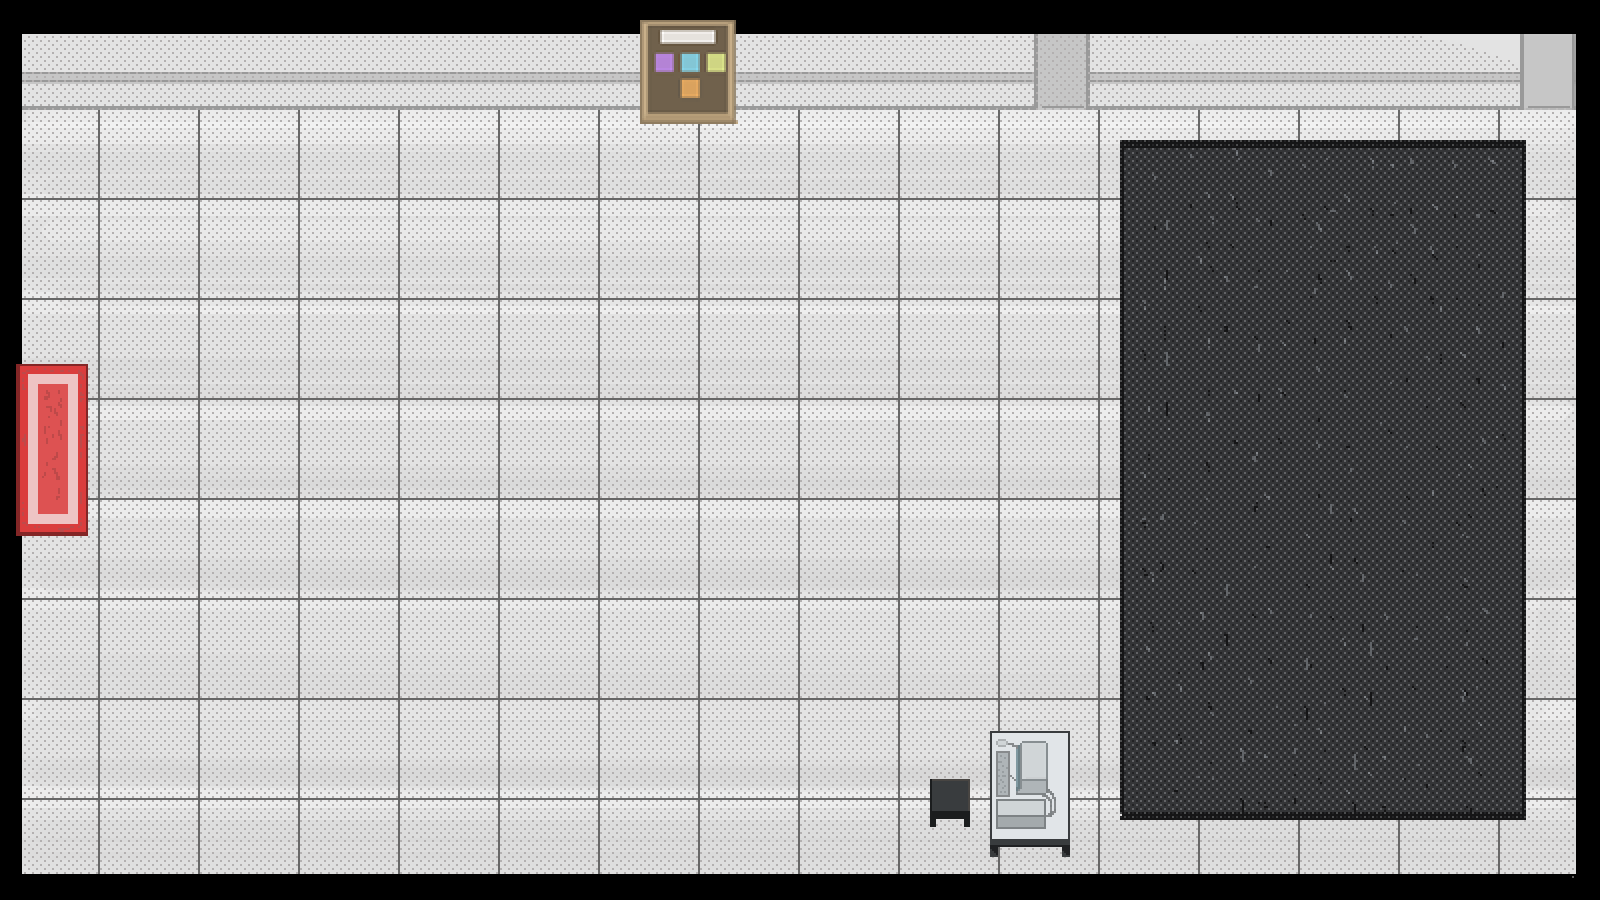
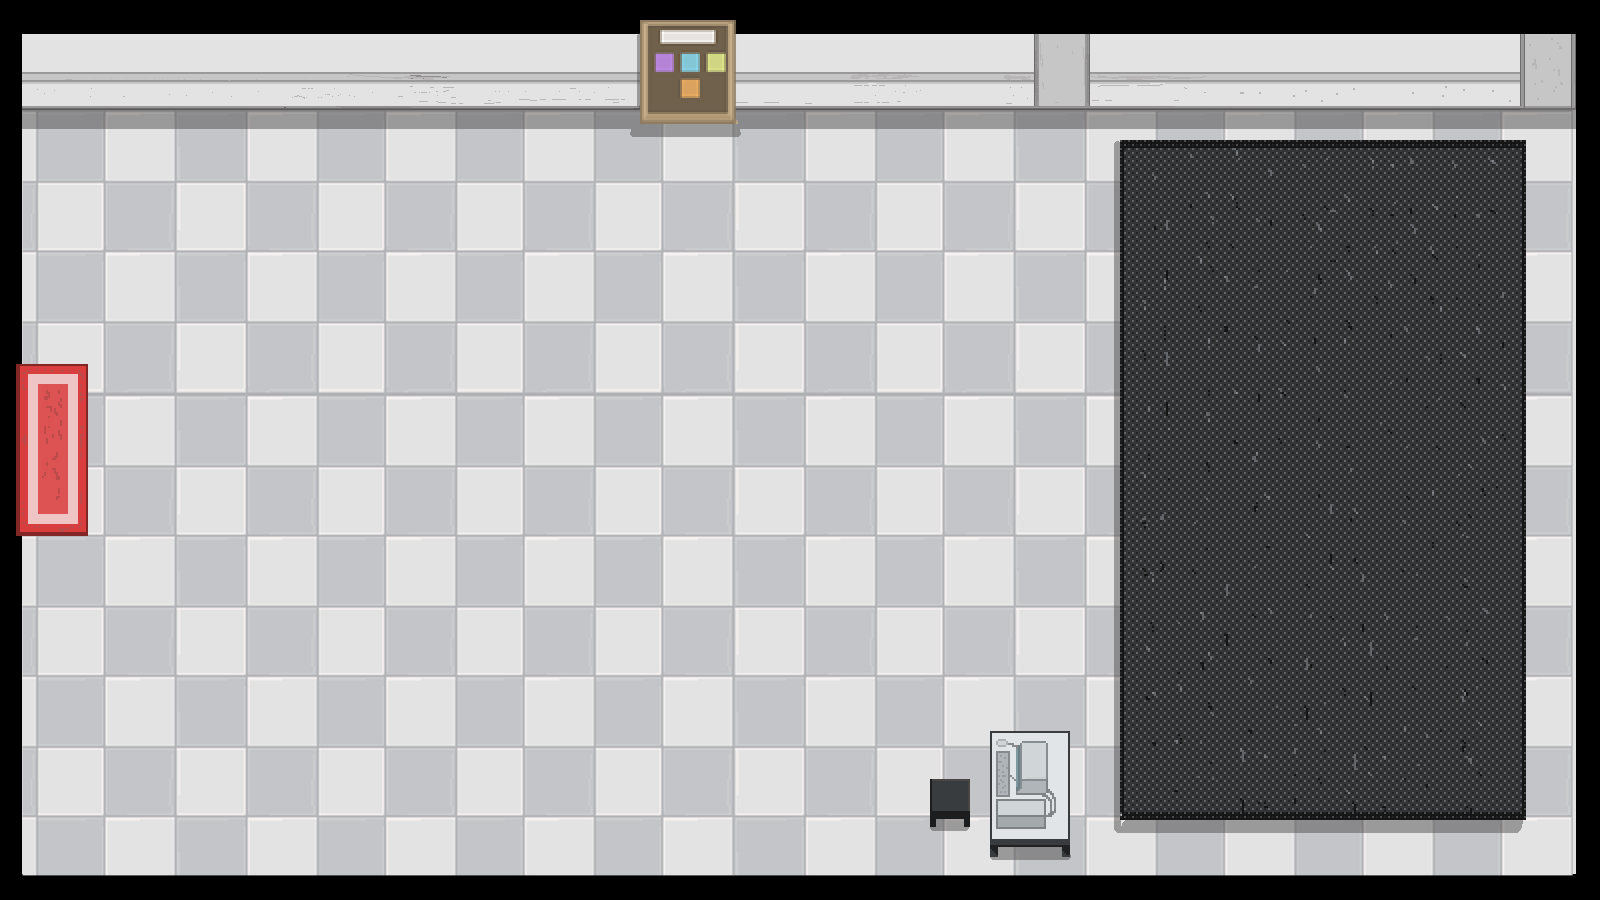
updated map graphics

diff --git a/core/src/com/codex/learning/entity/maps/PlayroomMapS1.java b/core/src/com/codex/learning/entity/maps/PlayroomMapS1.java
@@ -65,7 +65,7 @@ public class PlayroomMapS1 extends State {
         sprite.setProjectionMatrix(manager.getCamera().combined);
         sprite.enableBlending();
         if(manager.getStageSelector().map().equals("1")){
-//            sprite.draw(manager.getPlayroomStage1(), manager.getCamera().position.x - Constants.SCREEN_WIDTH/2f, manager.getCamera().position.y - Constants.SCREEN_HEIGHT/2f, Constants.SCREEN_WIDTH, Constants.SCREEN_HEIGHT);
+            sprite.draw(manager.getPlayroomStage1(), manager.getCamera().position.x - Constants.SCREEN_WIDTH/2f, manager.getCamera().position.y - Constants.SCREEN_HEIGHT/2f, Constants.SCREEN_WIDTH, Constants.SCREEN_HEIGHT);
         }
         else if(manager.getStageSelector().map().equals("2")){
             sprite.draw(manager.getPlayroomStage2(), manager.getCamera().position.x - Constants.SCREEN_WIDTH/2f, manager.getCamera().position.y - Constants.SCREEN_HEIGHT/2f, Constants.SCREEN_WIDTH, Constants.SCREEN_HEIGHT);

diff --git a/core/src/com/codex/learning/states/PlayState.java b/core/src/com/codex/learning/states/PlayState.java
@@ -53,7 +53,7 @@ public class PlayState extends State{
         pause = new PauseState(manager);
         rand = new Random();
 //        randomMinigame = rand.nextInt(3-1)+1;
-        randomMinigame = 1;
+        randomMinigame = 2;
         if(manager.getStageSelector().map().equals("1")){
             house = new HouseMap(manager);
             computer = new Computer(manager, fuzzyLogic);
